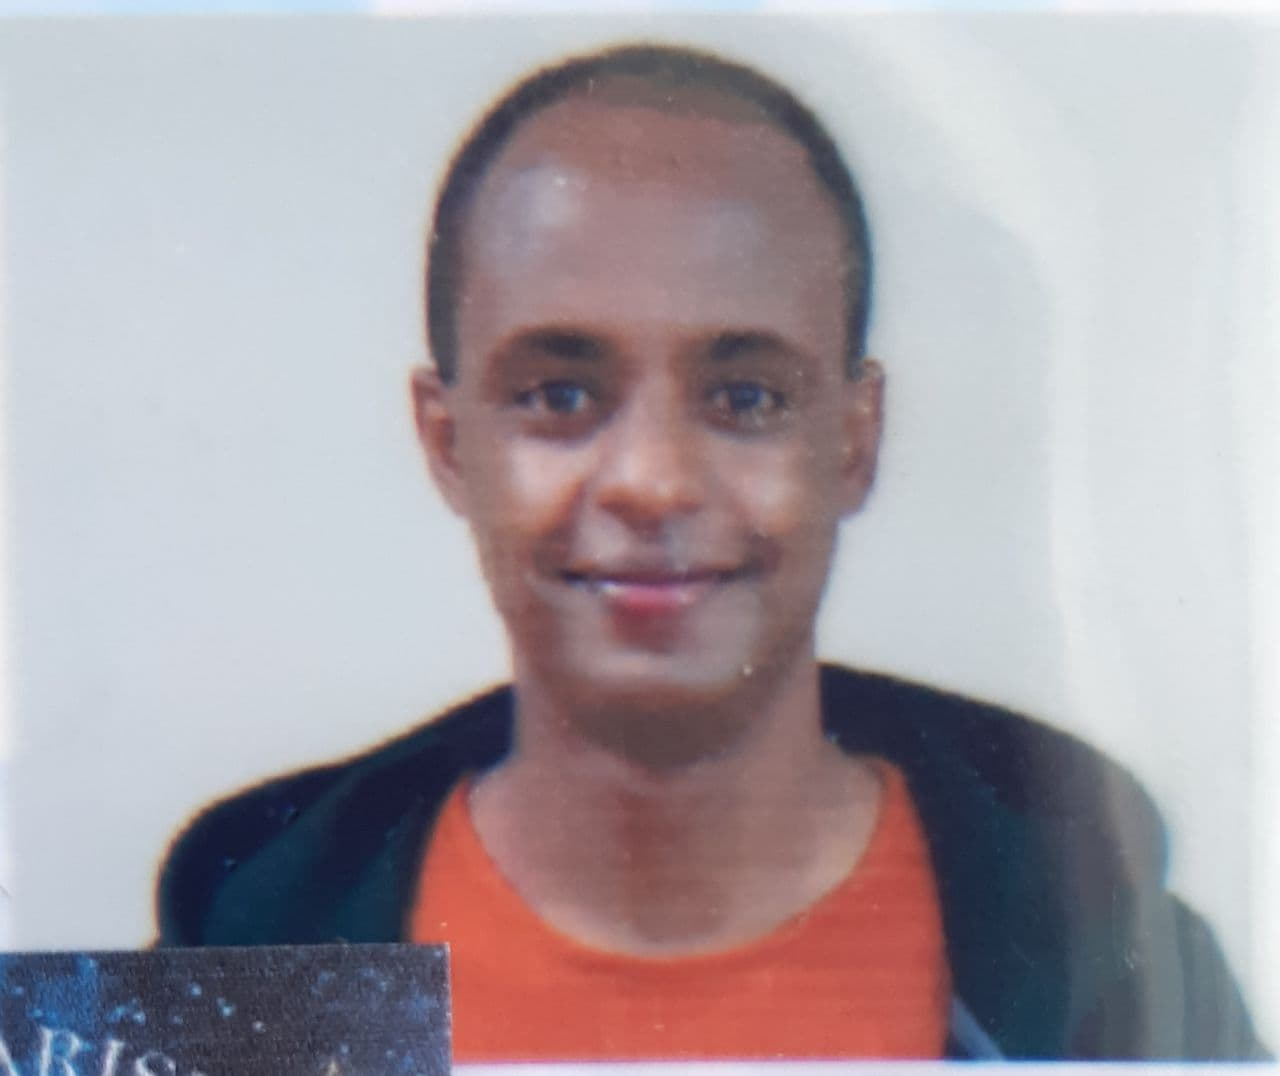
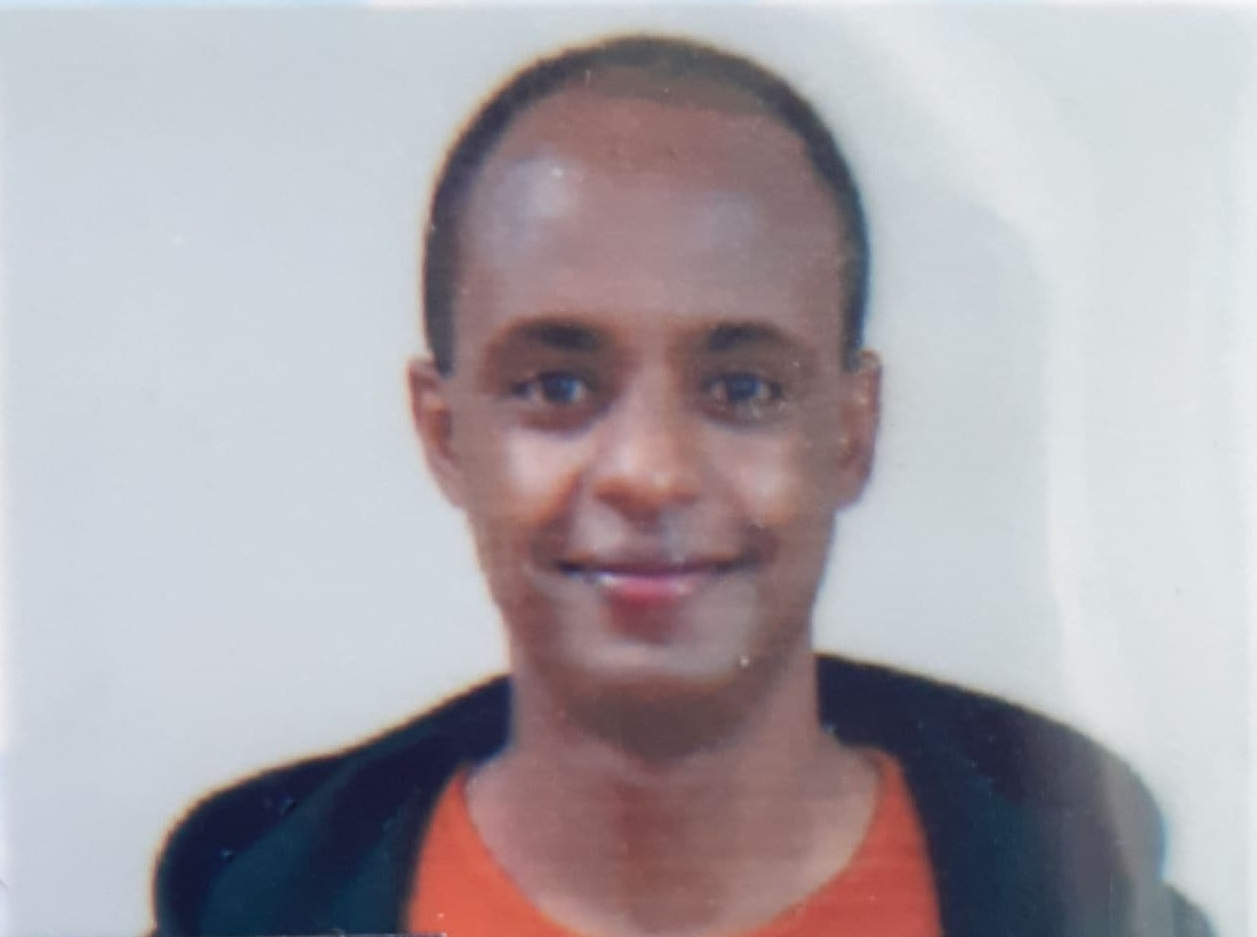
footer added

Changed region(s): [[0.0, 0.0619, 1.0, 1.0], [0.4964, 0.0309, 0.5895, 0.0619], [0.4344, 0.2166, 0.4654, 0.2476]]

diff --git a/index.html b/index.html
@@ -7,7 +7,8 @@
                 text-align: center;
             }
             #first-section img{
-                border-radius: 50px;
+                border-radius: 20px;
+                width:25%;
             }
             #first-section p{
                 font-size: large;
@@ -19,7 +20,7 @@
             }
         </style>
     </head>
-    <body>
+    <body style="background-image: url('download.png');">
         <section id="first-section">
             <img src="id-photo.jpg" alt="Seid Abrar's photo">
             <br>
@@ -40,5 +41,12 @@
                 <li>Lab 01</li>
             </ul>            
         </section>
+        <footer style="background-color: black; padding: 5px; border-radius: 20px;">
+            <ul style="list-style: none; color: white;">
+                <li>Name: Seid Abrar</li>
+                <li>Email: sabrar@miu.edu</li>
+                <li>phone: 1245823934</li>
+            </ul>
+        </footer>
     </body>
 </html>
